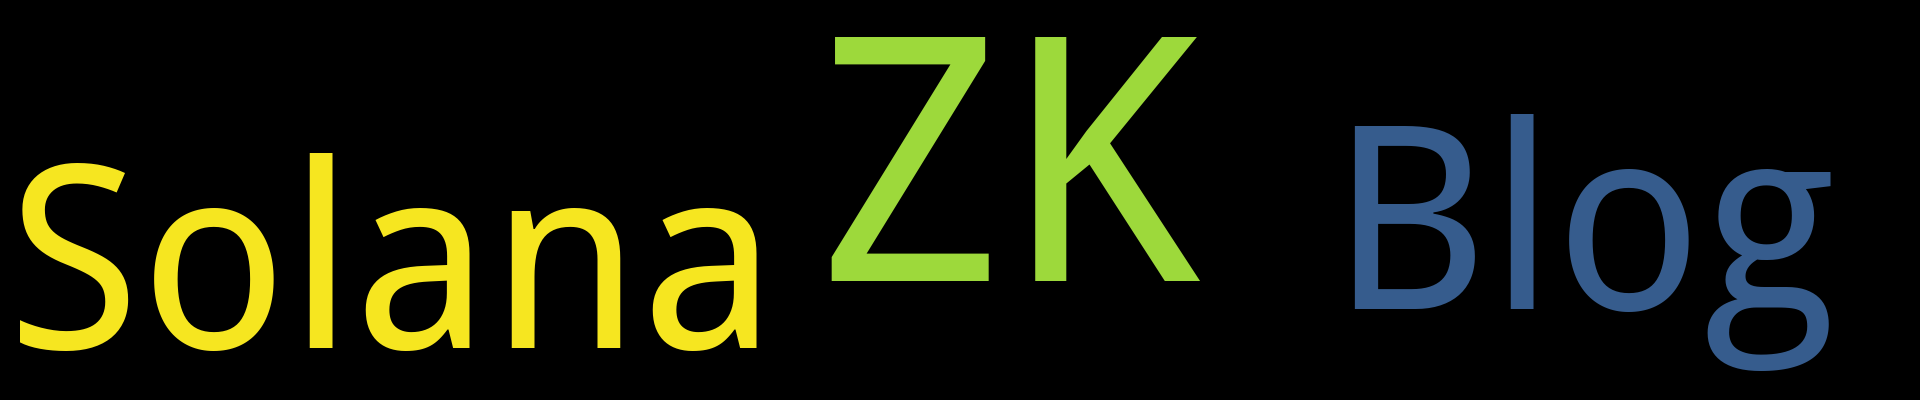
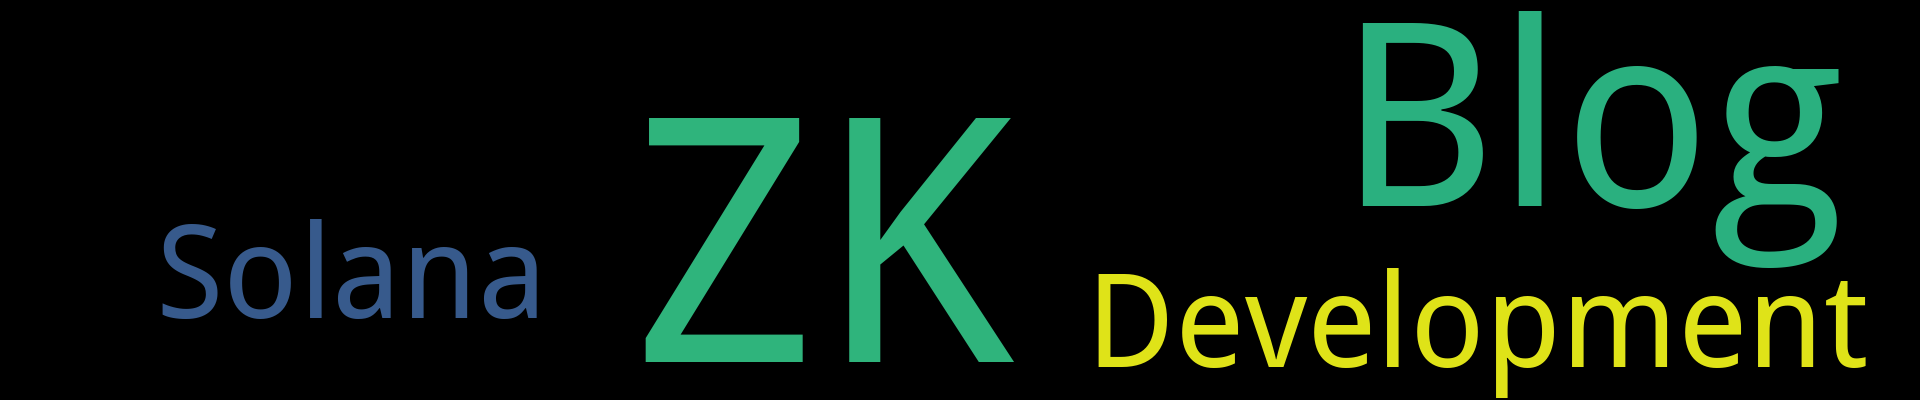
Update from Github Action

Changed region(s): [[0.0, 0.03, 0.9688, 0.99]]

diff --git a/README.md b/README.md
@@ -1,7 +1,7 @@
 
 <p align='center'>
     <img src="https://badgen.net/github/issues/SpaceStation09//my-notes"/>
-    <img src="https://badgen.net/badge/last-commit/2024-12-18 08:52:32"/>
+    <img src="https://badgen.net/badge/last-commit/2025-01-13 07:10:14"/>
     <img src="https://badgen.net/github/stars/SpaceStation09//my-notes"/>
     <img src="https://badgen.net/github/watchers/SpaceStation09//my-notes"/>
 </p>
@@ -14,6 +14,14 @@
 <summary>Blog	[1篇]</summary>
 
 - 2024-09-20 [使用Github Issues 与 Git Action 写博客 - Hello, World!](https://github.com/SpaceStation09/my-notes/issues/1) 
+
+
+</details>
+            
+<details open>
+<summary>Development	[1篇]</summary>
+
+- 2025-01-13 [【开发小记】create2的使用方式](https://github.com/SpaceStation09/my-notes/issues/6) 
 
 
 </details>
